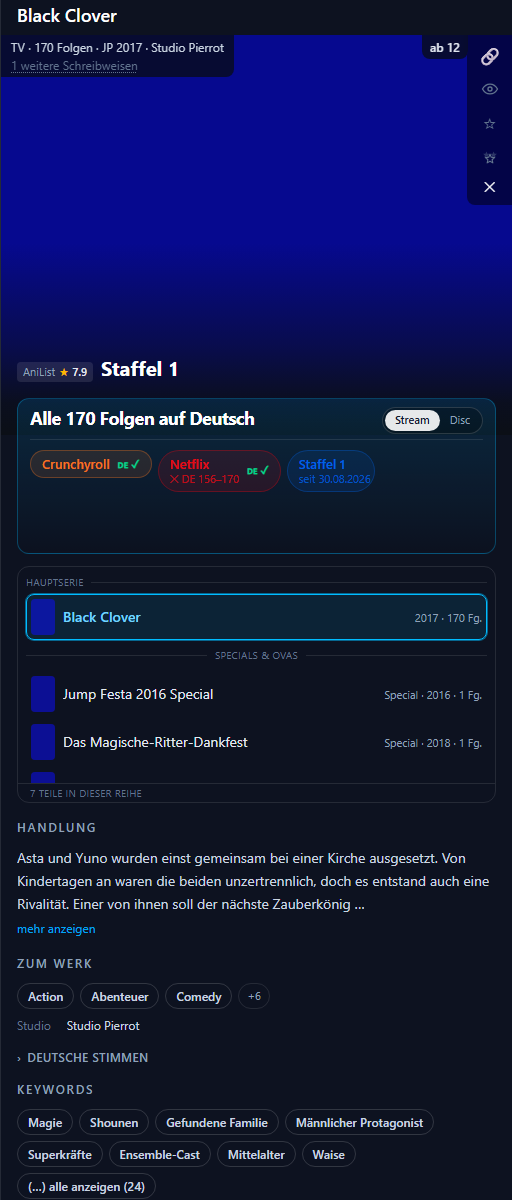
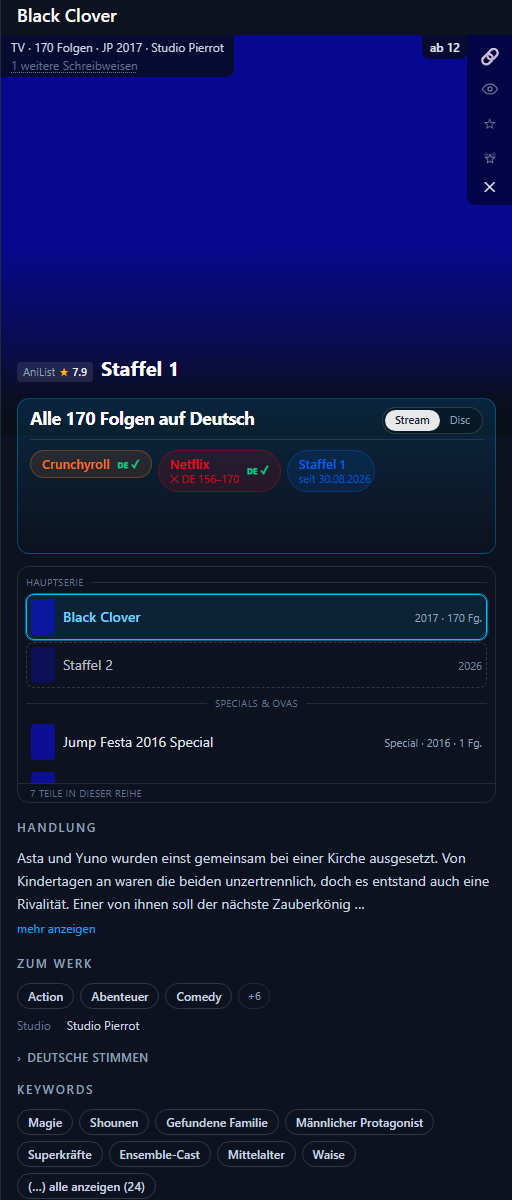
Was noch nicht da ist, gehört trotzdem zu seiner Art
Künftige Reihenteile standen in einer eigenen Gruppe „NOCH NICHT ERSCHIENEN",
ganz unten. Bei „Black Clover" landete Staffel 2 damit unter zwei Specials und
einem Film — Daniel sah sie erst nach dem Scrollen und hielt sie für fehlend.

Wer eine Reihe aufschlägt, sucht die nächste Staffel, und die ist per
Definition die, die noch aussteht. Sie ans Ende aller Kategorien zu schieben
versteckt genau das, wonach gesucht wird.

Jetzt steht jeder Teil in seiner Kategorie, die künftigen hinten und nach Jahr
sortiert. Gestrichelt bleiben sie erkennbar — das war ohnehin die
Zeilenmarkierung, nicht die Überschrift. Mit der Gruppe fällt auch die
Sortierung, die sie brauchte: Was `nachRang` innerhalb eines Topfes ordnete,
ordnen jetzt die Kategorien selbst.

diff --git a/web/src/components/DetailPanel.tsx b/web/src/components/DetailPanel.tsx
@@ -2651,20 +2651,6 @@ export function DetailPanel({
                   const kuenftig = (m: FranchiseMember) =>
                     (m.jpYear ?? 0) > jahr || (Boolean(m.ohneSynchro) && (m.jpYear ?? 0) >= jahr)
                   /*
-                    **Erst die Staffeln, dann alles Übrige — jeweils nach Datum.**
-
-                    Rein chronologisch stand zwischen Staffel 1 und Staffel 2 eine
-                    ONA von 2023 (Daniel: „sortierung der einträge falsch … sie
-                    sollten zuerst nach hauptstaffeln sortiert sein, dann nach
-                    datum"). Wer eine Reihe öffnet, sucht die nächste Staffel; ein
-                    Spin-off dazwischen unterbricht genau die Reihenfolge, die er
-                    im Kopf hat.
-                  */
-                  const nachRang = (a: FranchiseMember, b: FranchiseMember) => {
-                    const rang = (m: FranchiseMember) => (istStaffel(m.format) ? 0 : 1)
-                    return rang(a) - rang(b) || (a.jpYear ?? 0) - (b.jpYear ?? 0) || a.id - b.id
-                  }
-                  /*
                     **Vier Gruppen mit Überschrift, nicht zwei Töpfe.**
 
                     Bei „One Piece" standen 64 Teile in einer Liste, und der erste
@@ -2709,29 +2695,43 @@ export function DetailPanel({
                   const hatTv = reihenTeile.some((m) => m.format === 'TV')
                   const istHauptstaffel = (m: FranchiseMember) =>
                     hatTv ? m.format === 'TV' : istStaffel(m.format)
-                  const da = reihenTeile.filter((m) => !kuenftig(m))
-                  const gruppen: { titel: string; teile: FranchiseMember[]; offen: boolean }[] = [
+                  /*
+                    **Was noch nicht da ist, gehört trotzdem zu seiner Art.**
+
+                    Bis zum 04.09.2026 gab es dafür eine vierte Gruppe, „NOCH
+                    NICHT ERSCHIENEN", ganz unten. Bei „Black Clover" stand
+                    Staffel 2 damit **unter** zwei Specials und einem Film —
+                    Daniel sah sie erst nach dem Scrollen und hielt sie für
+                    fehlend: „ich hab staffel 2 nicht gesehen unter hauptserie
+                    … keine seperate kategorie ,noch nicht erschienen', sondern
+                    direkt dort einsortieren wozu es gehört."
+
+                    Er hat recht, und zwar nicht nur für diesen Fall: Wer eine
+                    Reihe aufschlägt, sucht die nächste Staffel — und die ist
+                    per Definition die, die noch aussteht. Sie ans Ende aller
+                    Kategorien zu schieben versteckt genau das, wonach gesucht
+                    wird.
+
+                    Innerhalb einer Kategorie stehen die künftigen Teile hinten,
+                    nach Jahr sortiert. Als **gestrichelt** bleiben sie erkennbar
+                    — das war ohnehin die Zeilenmarkierung, nicht die Überschrift.
+                  */
+                  const nachStandUndJahr = (a: FranchiseMember, b: FranchiseMember) =>
+                    Number(kuenftig(a)) - Number(kuenftig(b)) || nachJahr(a, b)
+                  const gruppen: { titel: string; teile: FranchiseMember[] }[] = [
                     {
                       titel: t('detail.gruppeStaffeln'),
-                      teile: da.filter(istHauptstaffel).sort(nachJahr),
-                      offen: false,
+                      teile: reihenTeile.filter(istHauptstaffel).sort(nachStandUndJahr),
                     },
                     {
                       titel: t('detail.gruppeSpecials'),
-                      teile: da
+                      teile: reihenTeile
                         .filter((m) => !istHauptstaffel(m) && m.format !== 'MOVIE')
-                        .sort(nachJahr),
-                      offen: false,
+                        .sort(nachStandUndJahr),
                     },
                     {
                       titel: t('detail.gruppeFilme'),
-                      teile: da.filter((m) => m.format === 'MOVIE').sort(nachJahr),
-                      offen: false,
-                    },
-                    {
-                      titel: t('detail.reiheKuenftig'),
-                      teile: reihenTeile.filter(kuenftig).sort(nachRang),
-                      offen: true,
+                      teile: reihenTeile.filter((m) => m.format === 'MOVIE').sort(nachStandUndJahr),
                     },
                   ].filter((g) => g.teile.length > 0)
 
@@ -2904,7 +2904,7 @@ export function DetailPanel({
                             </span>
                             <span className="h-px flex-1 bg-slate-200 dark:bg-white/10" />
                           </div>
-                          {g.teile.map((m) => zeile(m, g.offen))}
+                          {g.teile.map((m) => zeile(m, kuenftig(m)))}
                         </Fragment>
                       ))}
                     </div>
